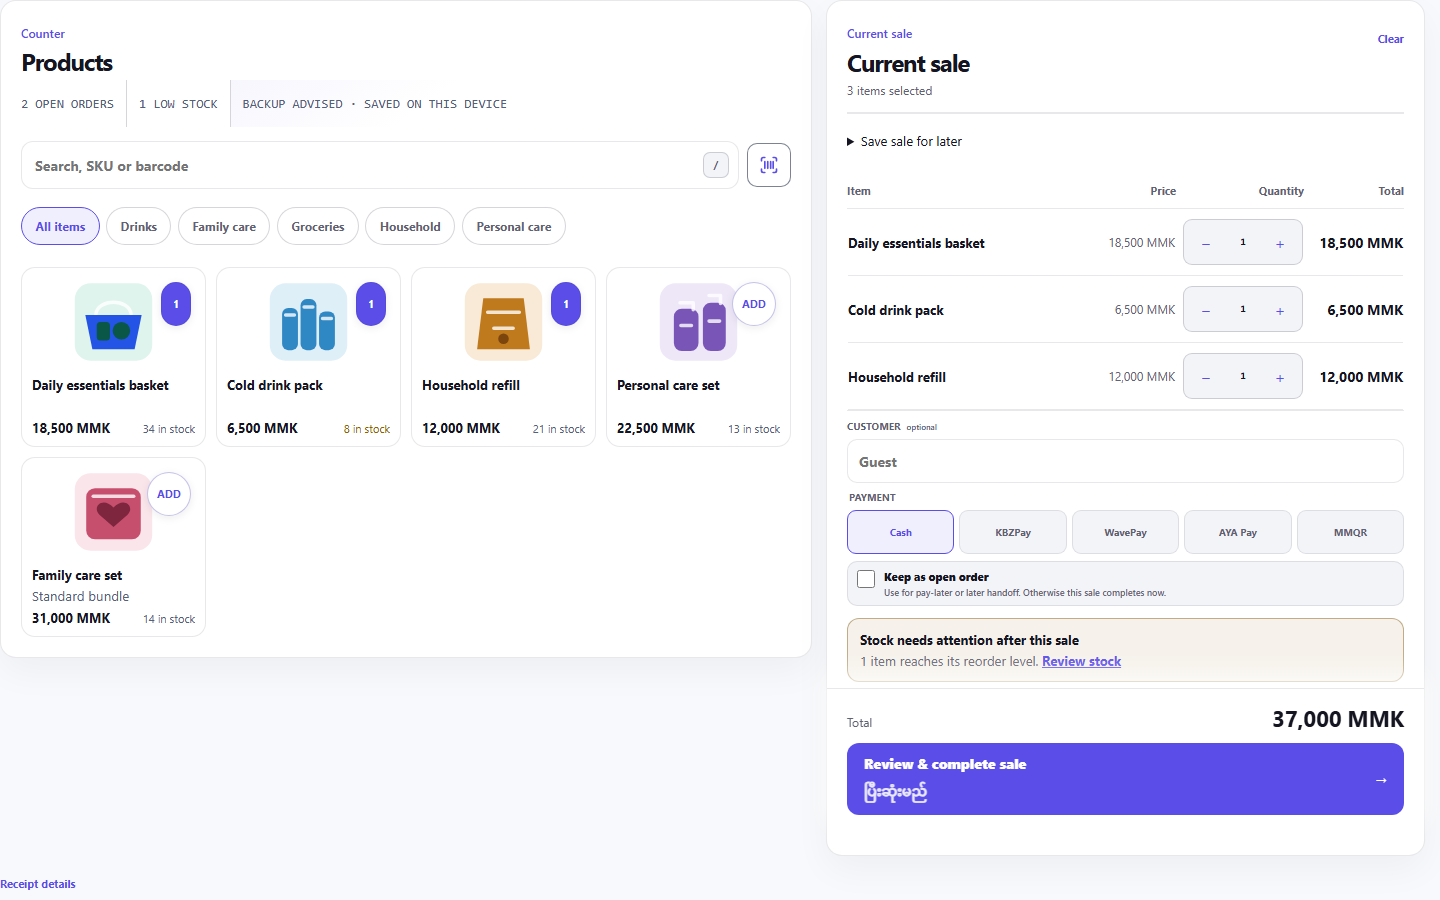
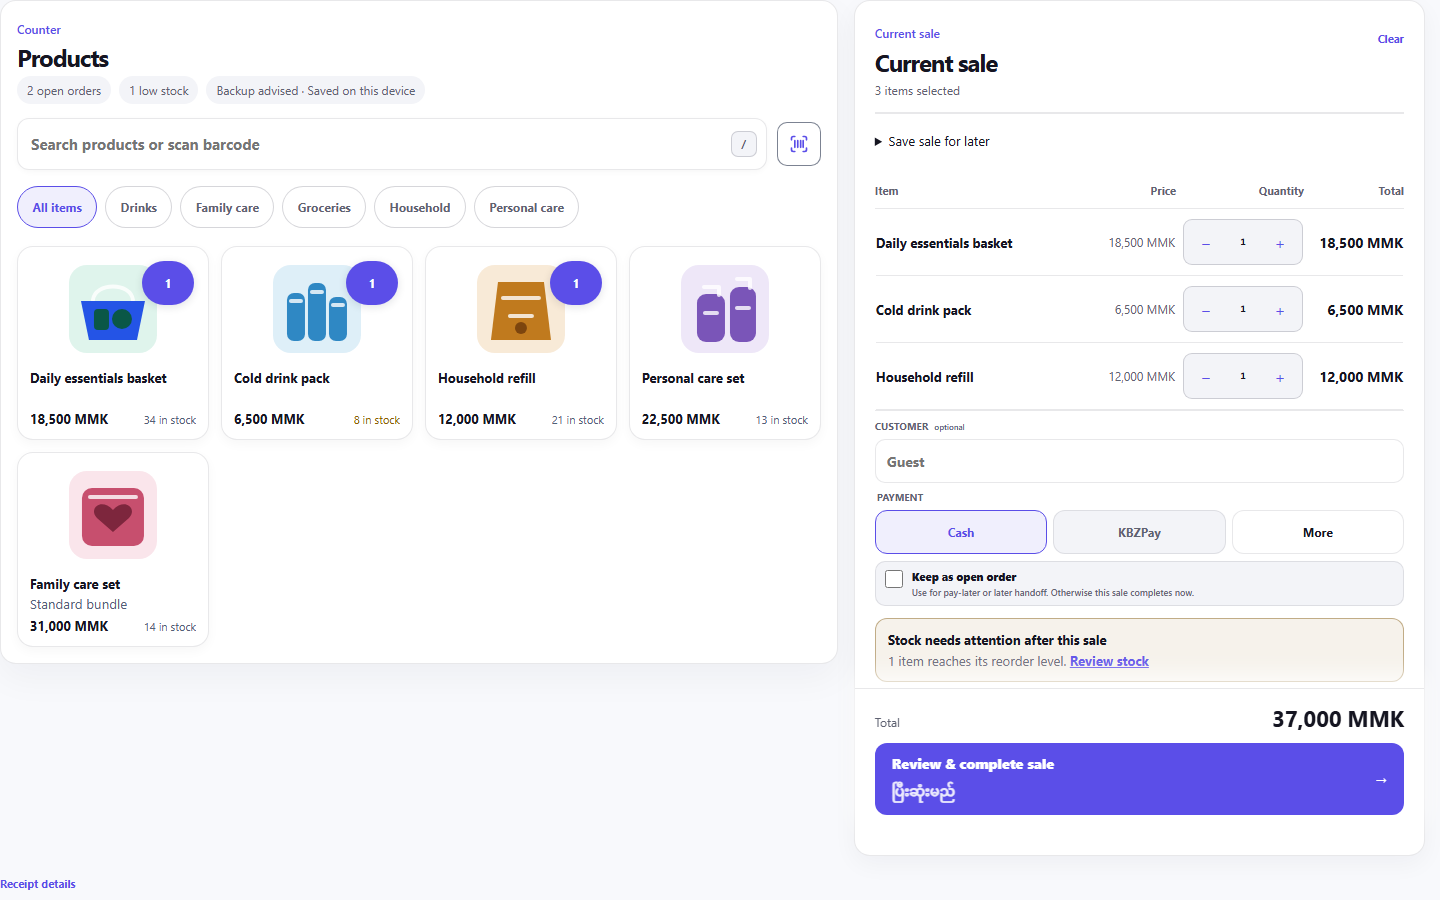
Refresh Shop website gallery from current UI

diff --git a/supergoal.md b/supergoal.md
@@ -1,12 +1,12 @@
 # SuperMega Supergoal
 
-Version: 1.4.27
+Version: 1.4.28
 Owner: Swan Htet, Founder
 Maintainer: CTO, sole integration writer
-Updated: 2026-10-16
+Updated: 2026-10-17
 Status: ACTIVE — implementation and acceptance in progress; not production-ready.
 
-## Current checkpoint — 16 October
+## Current checkpoint — 17 October
 
 Customer-managed launch access is **Shop only**. Sites and Commerce are managed internally, while submitted requests must arrive automatically in Shop for fulfilment. [Integration PR #682](https://github.com/swanhtet01/swanhtet01.github.io/pull/682) binds the public gallery to 14 desktop/mobile captures of real product components with synthetic records. The product source through `b9b90726c044b05462d6ca4f693a9dd509acd9b3` now shows Shop-facing Website and Commerce requests to a Shop-only operator; direct navigation from the internal Commerce editor to Shop still requires both assignments. This corrects the prior overbroad UI filter that hid useful incoming orders.
 
@@ -17,6 +17,12 @@ Customer-managed launch access is **Shop only**. Sites and Commerce are managed 
 The [previous protected preview](https://supermega-public-6f2sejr58-swanhtet01s-projects.vercel.app/) `dpl_2NJBHQRsCjW6VQj2Th4Z9T6hdxZR` was READY at `c9997538a1f1721689ff8a52133515f0a9a13531`: release JSON, Home, Contact, and all 14 hosted image hashes matched that candidate, and exact-head App CI passed. That preview predates the corrected incoming-request boundary above. The Contact form has Name, Email and Message without the retired dropdown or preparation question. The gallery remains local component evidence with synthetic records (`publicationReady=false`); visual quality, Commerce request presentation, and authenticated managed journeys need more work. The live domain was last confirmed on `5479c5d1ece3d697cf5c505e7feb431dc88baf75`.
 
 **Launch gates:** The corrected source requires a fresh exact-head CI run and protected preview. The three-product Supabase preview is `MIGRATIONS_FAILED` at the missing historical public baseline, and the approved three October Sites migrations cannot safely run yet. Managed sign-in, save/reload, recovery, tenant/actor isolation, Burmese/device/printer acceptance, eligible independent GitHub review, and production release remain open. The Oct 20 deadline is a go/no-go checkpoint, not evidence that these gates have passed. Use the [launch-control record](C:/Users/thesw/OneDrive%20-%20BDA/outputs/supermega-launch-control-20260924.md) for the latest exact-head evidence and owner decisions.
+
+**17 October REA-informed Shop and website iteration:** Local candidate commit `e46981d7657b7b57a7a1945df7afa0ffa5ca0699` removes the redundant Add badge from each already-clickable product card, lets Enter add one exact English or Burmese product-name match, keeps partial and duplicate-name results as operator choices, and puts WavePay, AYA Pay and MMQR behind a single secondary-payment control. Exact SKU/barcode scanning, stock caps, cashier confirmation and local-write boundaries remain intact. Product cards, search targets and payment actions are responsive and touch-sized.
+
[1 lines of base64/hex data omitted]
+
+The clean-source capture bound 18 real component screens to commit `e46981d7657b7b57a7a1945df7afa0ffa5ca0699` and showroom tree `d9daefc1976325885dd4dc6cbdf0ab1bddb8ceae`; the website candidate uses the four Shop views in desktop/mobile sizes, with synthetic records and `publicationReady:false`. A local seven-route public-site artifact passed gallery hash/provenance, artifact-budget, output and 302 landing-page checks. The candidate is local only; the live domain was **NOT** changed. Shop barcode/catalog/touch tests passed (144, 13, and 17 checks), the full app build contract passed, and the production app build transformed 328 modules. Targeted ESLint exhausted Node's 2 GB heap; it was not retried. Launch decision remains **NO-GO** until the managed-preview, tenant isolation, hardware, VPS, independent review and exact-head release gates are resolved.
 
 ## Prior checkpoint — 14 October
 

diff --git a/docs/SHOP-FIRST-LAUNCH-GATE-2026-10-16.md b/docs/SHOP-FIRST-LAUNCH-GATE-2026-10-16.md
@@ -1,4 +1,4 @@
-# Shop-first launch gate — refreshed 17 October 2026, 06:27 MMT (16 October 23:57 UTC)
+# Shop-first launch gate — refreshed 17 October 2026, 06:53 MMT (00:23 UTC)
 
 **Decision: NO-GO for customer launch or production promotion.** This is a review checklist, not an approval to deploy, merge, contact customers, or change a provider.
 
@@ -143,3 +143,13 @@ The preview security advisor still reports disabled leaked-password protection (
 The current local candidate is `90ada046e59c1db5ad3af1c8b6467e5f59b637b3` with isolated output `shop-responsive-90ada046e`; local output verification and 302 landing-page checks pass. The live-site request from this workstation was refused, while the web index returned a page crawled yesterday that still lists Sites and Commerce with “illustrative records.” That is stale evidence, not a current live read; no production update occurred.
 
 **Decision remains NO-GO.** Recover the September branch-operation record before proposing any migration-history repair. Then prepare the smallest reviewed branch reconciliation and obtain explicit approval for any additional preview migration, Auth-setting change, or synthetic tenant fixture before writes; verify authenticated Shop access and cross-tenant denial afterward. Live-site alignment, exact-head CI/review, physical hardware results, and the paid-VPS worker proof remain open.
+
+### 17 October KMO/ZayTap/Square counter iteration
+
+Local Shop source commit `e46981d7657b7b57a7a1945df7afa0ffa5ca0699` applies a focused clean-room version of the strongest counter patterns: remove the duplicate Add badge from the product card that is already the add action; allow Enter on one exact English or Burmese product name to add it; keep partial and duplicate-name searches as operator choices; preserve exact SKU/barcode matching, stock caps and no-write-on-scan behavior; and show Cash/KBZPay first with WavePay, AYA Pay and MMQR behind one secondary choice. The Counter remains responsive, with full product-card and quantity controls sized for touch. No proprietary code, branding or competitor assets were copied.
+
+Evidence basis: the supplied KMO screenshot is a visual reference only; [ZayTap's public feature page](https://www.hextechsoftware.com/zaytap.php) describes sales, stock, reports, roles and receipts; [Square's scanner guide](https://squareup.com/help/us/en/article/5143-bar-code-scanners-with-square-point-of-sale) and [printer guide](https://squareup.com/help/us/en/article/8246-connect-a-printer-to-square) document real connection patterns. These are desk-research inputs, not competitor runtime tests. REA's KMO PE evidence is static only; the Android APK scan remains blocked by case-colliding `res/9n.9.png` / `res/9N.9.png` entries and unavailable JADX configuration. Neither vendor binaries nor applications were executed. Hardware support remains **NOT RUN**.
+
+The clean capture was bound to source commit `e46981d7657b7b57a7a1945df7afa0ffa5ca0699` and showroom tree `d9daefc1976325885dd4dc6cbdf0ab1bddb8ceae`. It produced 18 real-component screenshots with synthetic records, blocked external requests, one synthetic local sale, and no customer receipt. Eight current Shop captures were hash-bound into the public-gallery source; the public build exposes the four Shop views in desktop/mobile layouts while keeping Sites and Commerce internal. `publicationReady:false` remains set. The isolated seven-route static site artifact passed gallery/provenance, artifact-budget, output and landing-page checks (302 checks). No push, live-domain change, provider write or deployment occurred.
+
+**Focused evidence:** barcode scan boundary 144 checks; first-catalog flow 13 tests; counter touch/focus 17 tests; app-build contract passed; Vite build transformed 328 modules and emitted a 39-file offline precache seal. The targeted ESLint process exhausted Node's 2 GB heap on `CoreApp.tsx`; it was not retried. These local results do not satisfy managed Auth/tenant isolation, physical scanner/printer, VPS worker, exact-head CI/review, or production acceptance. The 20 October checkpoint remains **NO-GO unless those gates independently pass**.
